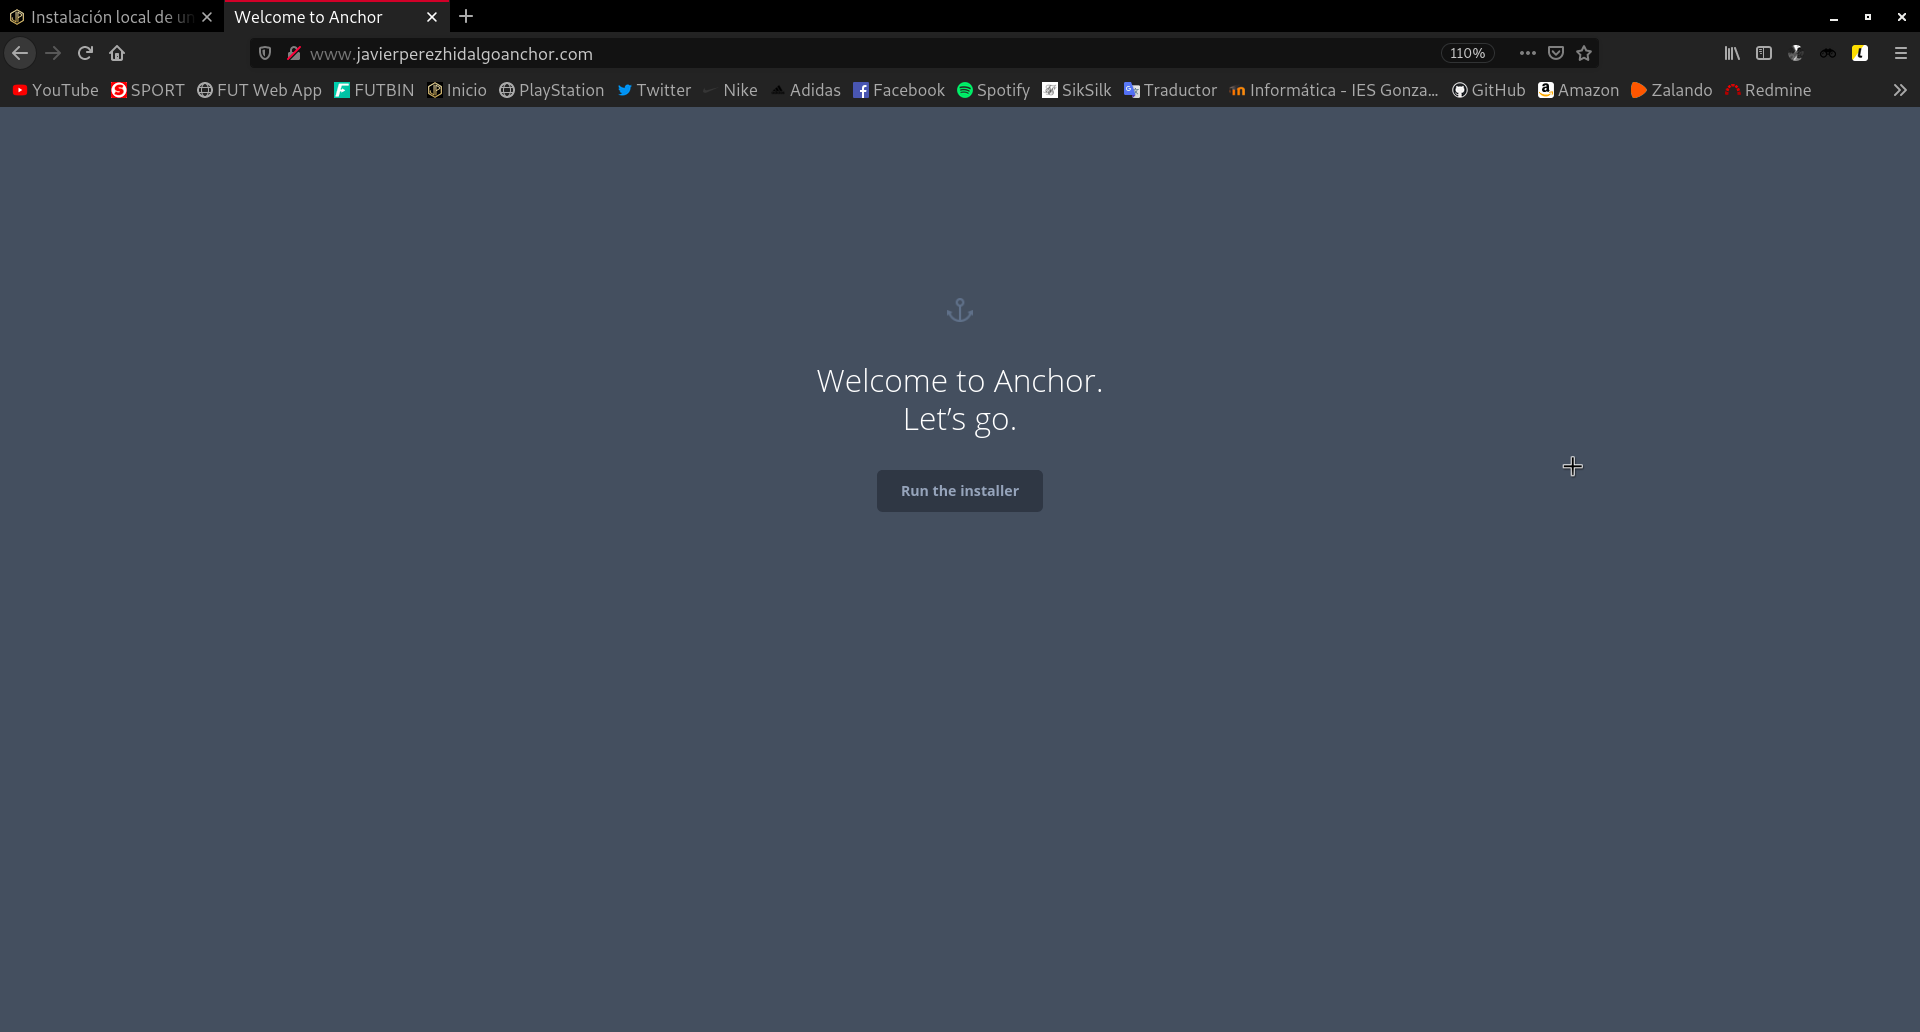
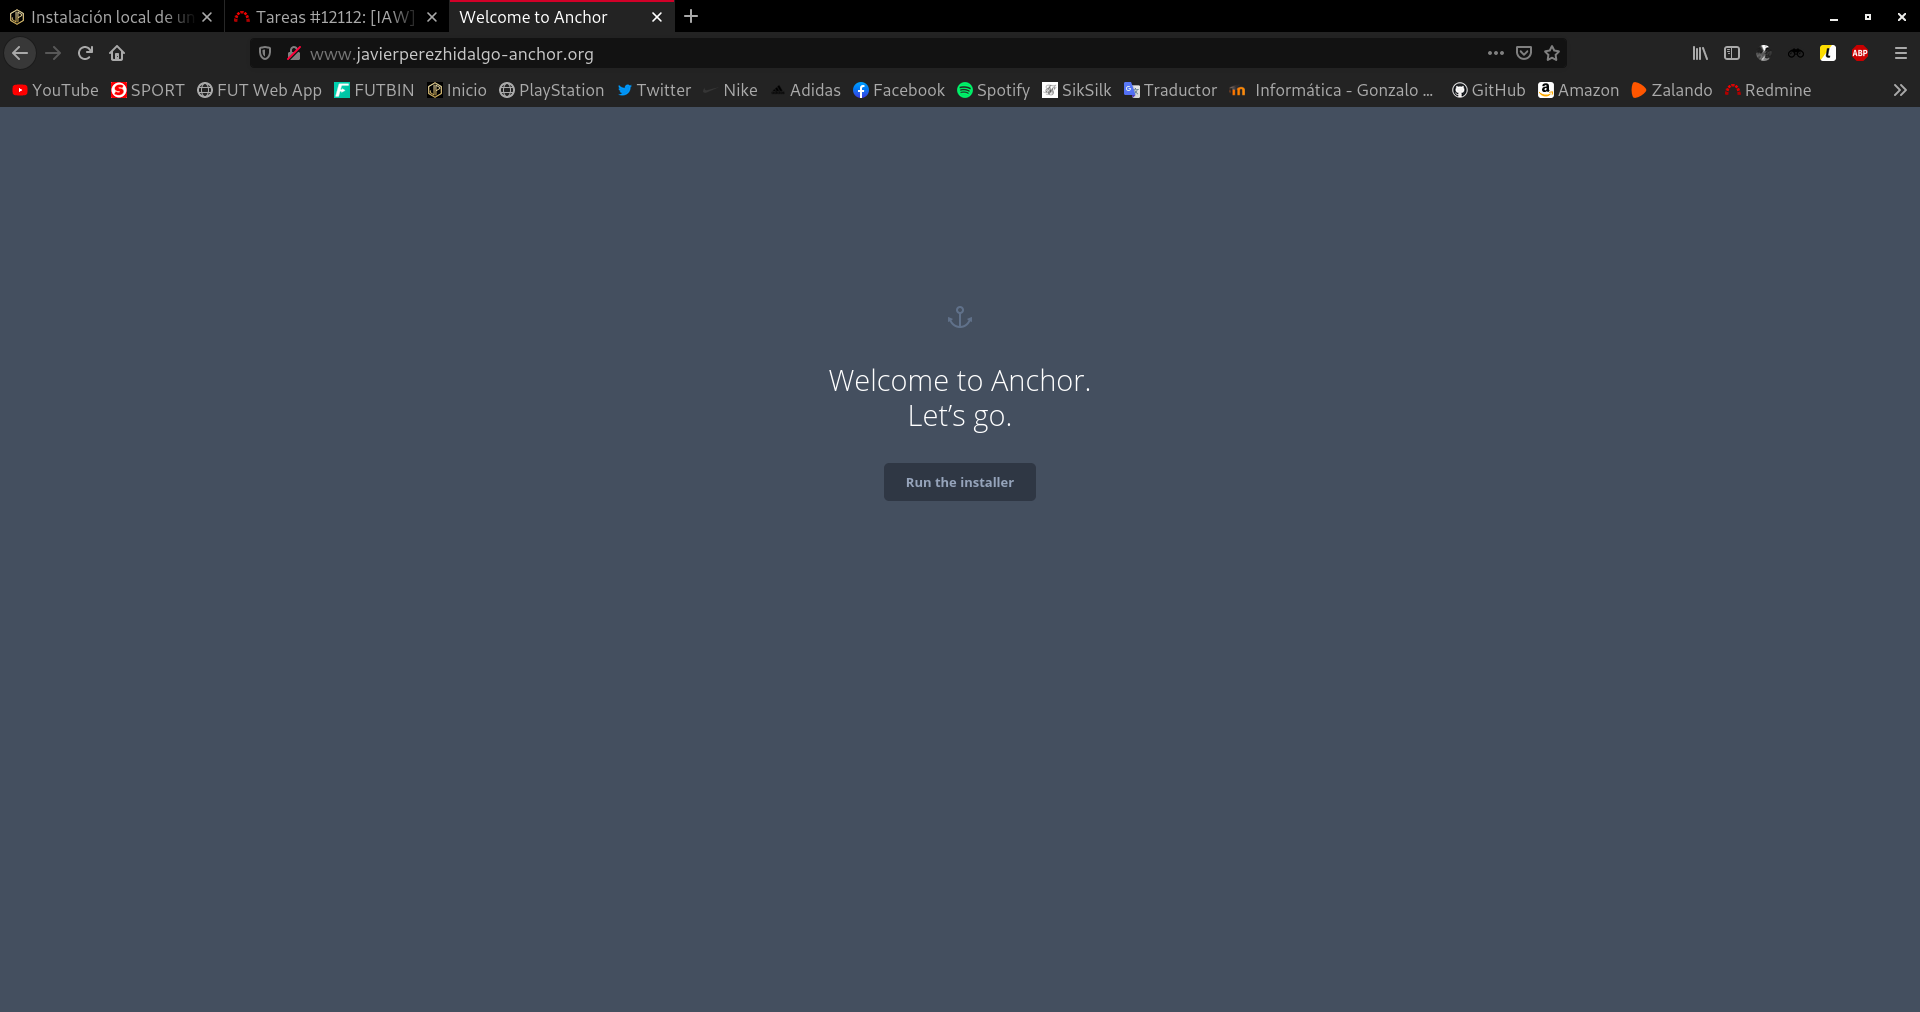
cambios

diff --git a/content/iaw_instalacion_local_de_un_CMS_PHP.md b/content/iaw_instalacion_local_de_un_CMS_PHP.md
@@ -1000,10 +1000,10 @@ a2ensite anchor.conf
 Por último, añadimos esta línea al fichero `/etc/hosts` del equipo anfitrión para que podamos ver la web en nuestro navegador.
 
 <pre>
-192.168.30.15   www.javierperezhidalgo-anchor.com
+192.168.30.15   www.javierperezhidalgo-anchor.org
 </pre>
 
-Introducimos en el navegador la dirección `www.javierperezhidalgo-anchor.com` y nos saldrá el instalador de *Anchor*:
+Introducimos en el navegador la dirección `www.javierperezhidalgo-anchor.org` y nos saldrá el instalador de *Anchor*:
 
 ![.](images/iaw_instalacion_local_de_un_cms_php/anchor.png)
 
